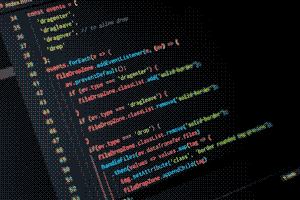
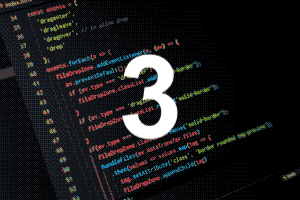
feat: chapter selection

Changed region(s): [[0.39, 0.27, 0.6, 0.72]]

diff --git a/src/story/home/home.component.ts b/src/story/home/home.component.ts
@@ -1,4 +1,7 @@
 import { Component, OnInit } from '@angular/core';
+import { Chapter } from './chapter';
+import { ChaptersService } from './chapters.service';
+
 
 @Component({
   selector: 'app-home',
@@ -7,11 +10,26 @@ import { Component, OnInit } from '@angular/core';
 })
 export class HomeComponent implements OnInit {
 
-  chapternumber: number = 1;
-  imgurl: string = "../assets/home/home_kapitel_1.png";
-  title: string = "Vom Esstisch zu der Arktis";
+  chapters: Chapter[];
 
-  constructor() { }
+  // chapternumber: number = 1;
+  // imgurl: string = "../assets/home/home_kapitel_1.png";
+  // title: string = "Vom Esstisch zu der Arktis";
+  screenHeight;
+  screenWidth;
+  buttonHeight;
+  buttonWidth;
+
+
+  constructor(service: ChaptersService) { 
+    this.chapters = service.getChapters();
+    this.screenHeight = (window.screen.height) + "px";
+    this.screenWidth = (window.screen.width) + "px";
+    this.buttonHeight = (window.screen.height / 6 )+ "px";
+    this.buttonWidth = (window.screen.width / 6 ) + "px";
+    console.log(this.screenHeight);
+          console.log(this.screenWidth)
+  }
 
   ngOnInit(): void {
   }

diff --git a/src/story/chapter-button/chapter-button.component.css b/src/story/chapter-button/chapter-button.component.css
@@ -1,17 +1,24 @@
 .container {
     position: relative;
+    width: 16vw;
+
+    margin: 0.8vw;
 }
-.chapter-button {
-    border-radius: 40px;
-    box-shadow: 10px;
+.button {
+    width: inherit;
+    opacity: 0.6;
 }
-.number{
-    position: absolute;
-  top: 7%;
-  width: 95%;
-  text-align: center;
-  font-size: 120px;
-  color: white;
-  font-family: Arial, Helvetica, sans-serif;
-  font-weight: bold;
+.button:hover {
+    opacity: 1;
+}
+.chapter-img {
+    width: inherit;
+    border-radius: 2.5vw;
+    box-shadow: 0 4px 8px 0 rgba(0, 0, 0, 0.2), 0 6px 20px 0 rgba(0, 0, 0, 0.19);
+    
+}
+.title {
+    width: inherit;
+    font: 12px Arial, sans-serif;
+    text-align: center;
 }

diff --git a/src/story/home/chapters.service.ts b/src/story/home/chapters.service.ts
@@ -1,0 +1,18 @@
+import { Injectable } from '@angular/core';
+import { Chapter } from './chapter';
+
+@Injectable({
+  providedIn: 'root'
+})
+export class ChaptersService {
+  getChapters(){
+    return [
+      new Chapter(1, "../assets/home/home_kapitel_1.png", "Vom Esstisch in die Arktis"),
+      new Chapter(2, "../assets/home/home_kapitel_2.png", "Mobilität"),
+      new Chapter(3, "../assets/home/home_kapitel_3.png", "Big Tech ohne großen Fußabdruck"),
+      new Chapter(4, "../assets/home/home_kapitel_4.png", "Nachhaltig shoppen"),
+      new Chapter(5, "../assets/home/home_kapitel_5.png", "Wie unsere Heizkörper das Klima erwärmen")
+    ]
+  }
+  constructor() { }
+}

diff --git a/src/story/home/home.component.html b/src/story/home/home.component.html
@@ -1,1 +1,16 @@
-<app-chapter-button [chapternumber]="chapternumber" [imgurl]="imgurl" [title]="title"></app-chapter-button>
+<div class="background">
+
+    <div class="component">
+        <h2>Kapitelübersicht</h2>
+
+        <div class="chapters" *ngFor="let chapter of chapters">
+            <app-chapter-button class="chapter-button" [chapternumber]="chapter.chapternumber" [imgurl]="chapter.imgurl" [title]="chapter.title"></app-chapter-button>
+        </div>
+        <div class="start-column">
+            <h2 class="start">Starten >></h2>
+        </div>
+        
+    </div>
+    
+
+</div>

diff --git a/src/story/app.module.ts b/src/story/app.module.ts
@@ -7,6 +7,7 @@ import { PersonalizationQuestionComponent } from './personalization-question/per
 import { NavbarComponent } from './navbar/navbar.component';
 import { ChapterButtonComponent } from './chapter-button/chapter-button.component';
 import { HomeComponent } from './home/home.component';
+import { ChaptersService } from './home/chapters.service';
 
 @NgModule({
   declarations: [
@@ -21,6 +22,7 @@ import { HomeComponent } from './home/home.component';
     AppRoutingModule
   ],
   providers: [
+    ChaptersService
   ],
   bootstrap: [AppComponent]
 })

diff --git a/src/story/chapter-button/chapter-button.component.html b/src/story/chapter-button/chapter-button.component.html
@@ -1,7 +1,6 @@
-<div class="container" style="width: fit-content;">
-    <input class="chapter-button" type="image" src= "{{ imgurl }}" id="chapter-button" alt={{chapternumber}} />
-    <div class="number">
-        {{ chapternumber }}
+<div class="container">
+    <div class="button">
+        <input class="chapter-img" type="image" src= "{{ imgurl }}" id="chapter-button" alt={{chapternumber}} />
     </div>
+    <p class="title">{{ title }}</p>
 </div>
-<h1>{{ title }}</h1>

diff --git a/src/story/home/chapters.service.spec.ts b/src/story/home/chapters.service.spec.ts
@@ -1,0 +1,16 @@
+import { TestBed } from '@angular/core/testing';
+
+import { ChaptersService } from './chapters.service';
+
+describe('ChaptersService', () => {
+  let service: ChaptersService;
+
+  beforeEach(() => {
+    TestBed.configureTestingModule({});
+    service = TestBed.inject(ChaptersService);
+  });
+
+  it('should be created', () => {
+    expect(service).toBeTruthy();
+  });
+});

diff --git a/src/story/home/chapter.ts b/src/story/home/chapter.ts
@@ -1,0 +1,13 @@
+export class Chapter {
+    chapternumber: number;
+    imgurl: string;
+    title: string;
+
+    constructor(_chapternumber: number, _imgurl: string, _title: string){
+        this.chapternumber = _chapternumber;
+        this.imgurl = _imgurl;
+        this.title = _title;
+    }
+
+    
+}

diff --git a/src/story/home/home.component.css b/src/story/home/home.component.css
@@ -1,0 +1,16 @@
+
+.component{
+    padding: 6vw;
+    background-color: transparent;
+    width: inherit;
+}
+.chapters {
+    background-color: transparent;
+    float: left;
+}
+.chapter-button {
+    padding: 5px;
+}
+.start {
+    text-align: right;
+}

diff --git a/src/story/app.component.html b/src/story/app.component.html
@@ -1,4 +1,4 @@
-<app-navbar></app-navbar>
-<app-home></app-home>
-<app-personalization-question [personalQuestions]="question"></app-personalization-question>
-<router-outlet></router-outlet>
+<div class="app">
+    <app-home></app-home>
+</div>
+

diff --git a/src/story/app.component.css b/src/story/app.component.css
@@ -1,0 +1,4 @@
+.app {
+    width: 100%;
+    height: 100%;
+}
